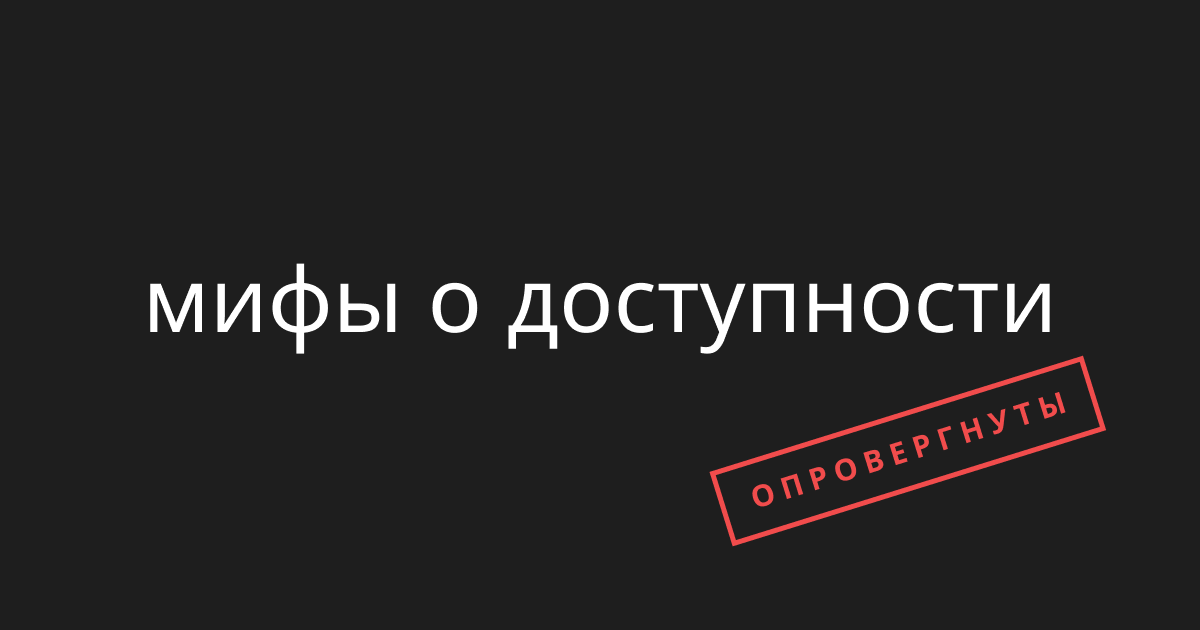
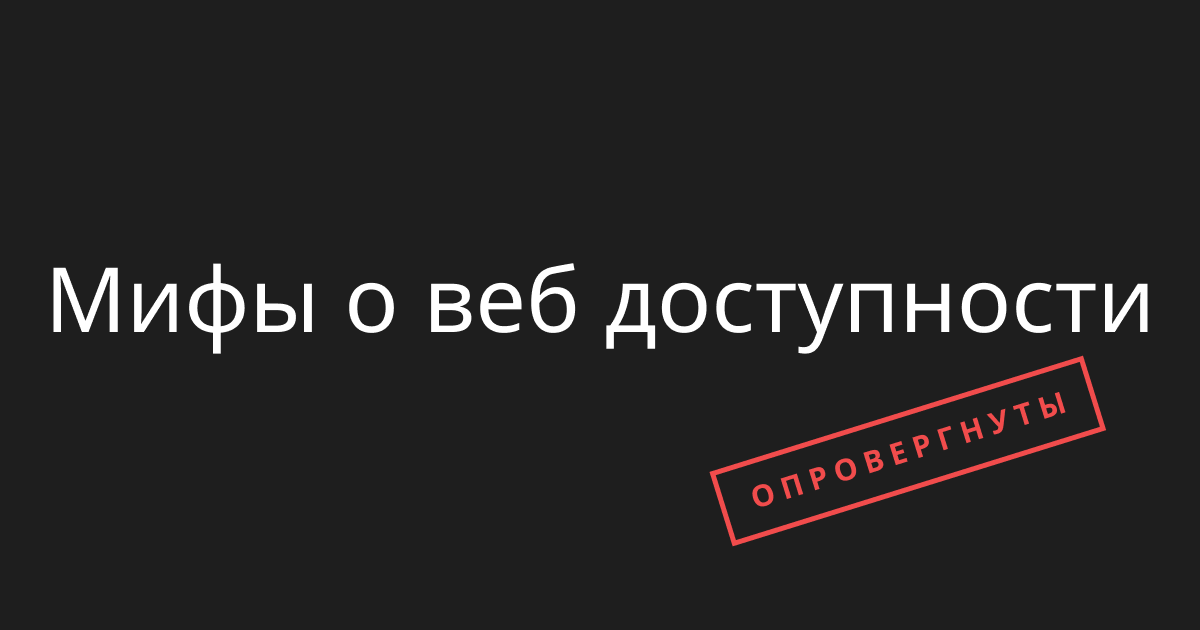
Update myths

Changed region(s): [[0.0308, 0.4222, 0.9558, 0.573]]

diff --git a/ru/index.html b/ru/index.html
@@ -4,34 +4,34 @@
     <meta charset="UTF-8" />
     <meta http-equiv="X-UA-Compatible" content="IE=edge" />
     <meta name="viewport" content="width=device-width, initial-scale=1.0" />
-    <title>Мифы о доступности</title>
+    <title>Мифы о веб доступности</title>
     <link rel="stylesheet" href="../css/styles.css" />
     <link rel="icon" type="image/x-icon" href="../favicon.ico" />
 
-    <meta name="description" content="Небольшой проект, который опровергает распространённые мифы о доступности." />
+    <meta name="description" content="Небольшой проект, который опровергает распространённые мифы о веб доступности." />
     <meta name="image" content="https://a11ymyths.com/" />
 
-    <meta property="og:title" content="Мифы о доступности" />
+    <meta property="og:title" content="Мифы о веб доступности" />
     <meta
       property="og:description"
-      content="Небольшой проект, который опровергает распространённые мифы о доступности."
+      content="Небольшой проект, который опровергает распространённые мифы о веб доступности."
     />
     <meta property="og:image" content="https://a11ymyths.com/images/og-image-ru.png" />
-    <meta property="og:image:alt" content="Мифы о доступности опровергнуты" />
+    <meta property="og:image:alt" content="Мифы о веб доступности опровергнуты" />
     <meta property="og:url" content="https://a11ymyths.com/" />
 
     <meta name="twitter:card" content="summary_large_image" />
     <meta name="twitter:creator" content="@_sergeikriger" />
-    <meta name="twitter:title" content="Мифы о доступности" />
+    <meta name="twitter:title" content="Мифы о веб доступности" />
     <meta
       name="twitter:description"
-      content="Небольшой проект, который опровергает распространённые мифы о доступности."
+      content="Небольшой проект, который опровергает распространённые мифы о веб доступности."
     />
     <meta name="twitter:image" content="https://a11ymyths.com/images/og-image-ru.png" />
-    <meta name="twitter:image:alt" content="Мифы о доступности опровергнуты" />
+    <meta name="twitter:image:alt" content="Мифы о веб доступности опровергнуты" />
     <style>
       :lang(ru) .myth__title::before {
-        content: "Миф #" counter(myth) "";
+        content: "Миф #" counter(myth);
       }
     </style>
   </head>
@@ -67,7 +67,7 @@
           </ul>
         </nav>
 
-        <h1>мифы о доступности</h1>
+        <h1>Мифы о веб доступности</h1>
         <p class="stamp">Опровергнуты</p>
 
         <section class="myth">

diff --git a/index.html b/index.html
@@ -56,7 +56,7 @@
           </ul>
         </nav>
 
-        <h1>a11y myths</h1>
+        <h1>Accessibility Myths</h1>
         <p class="stamp">Debunked</p>
 
         <section class="myth">
@@ -121,7 +121,7 @@
         </section>
 
         <section class="myth">
-          <h2 class="myth__title">Web accessibility is just a developer's job</h2>
+          <h2 class="myth__title">Web accessibility is just a developer's responsibility</h2>
           <p>
             It's a team effort. <strong>Designers</strong> create accessible UIs, <strong>developers</strong> build it,
             <strong>QA engineers</strong> do the accessibility testing, <strong>PMs</strong> make sure that
@@ -154,7 +154,7 @@
         </section>
 
         <section class="myth">
-          <h2 class="myth__title">Accessibility can be fixed by the automated checker or overlay</h2>
+          <h2 class="myth__title">Accessibility can be fixed by the accessibility overlay</h2>
 
           <p>
             Absolutely no. There is an
@@ -182,10 +182,12 @@
 
         <section class="myth">
           <h2 class="myth__title">Accessibility is only for blind users</h2>
+
           <p>
-            For blind users, deaf users, color blind users, for users with motor and mental disabilities, for elderly
-            users, for all users.
-            <strong>Essential for some, useful for all</strong>.
+            Certainly, accessibility affects the experience of blind users, but it also users with other visual
+            disabilities such as color blindness. And of course, it also benefits people with other forms of disability,
+            related to hearing, mobility, speech or cognition. It also works for elderly users. In short, for all users.
+            It is <strong>essential for some but useful for all</strong>.
           </p>
 
           <a href="https://www.w3.org/WAI/fundamentals/accessibility-intro/" target="_blank"
@@ -272,10 +274,11 @@
 
         <section class="myth">
           <h2 class="myth__title">Accessibility is like a feature - you do it once and then you have it</h2>
+
           <p>
-            No. Everyday maintenance, new colleagues who don't have proper accessibility skills, new requirements - all
-            this can break an accessibility. Accessibility is an <strong>ongoing thing</strong>, should be considered at
-            every step of development.
+            Accessibility is a practice, not a feature. It means that one should take care of it regularly, both when
+            working on features or doing maintenance work. The knowledge about accessibility should be passed on when a
+            new team member joins or when requirement changes.
           </p>
 
           <a href="https://ethanmarcotte.com/wrote/accessibility-is-not-a-feature/" target="_blank"
